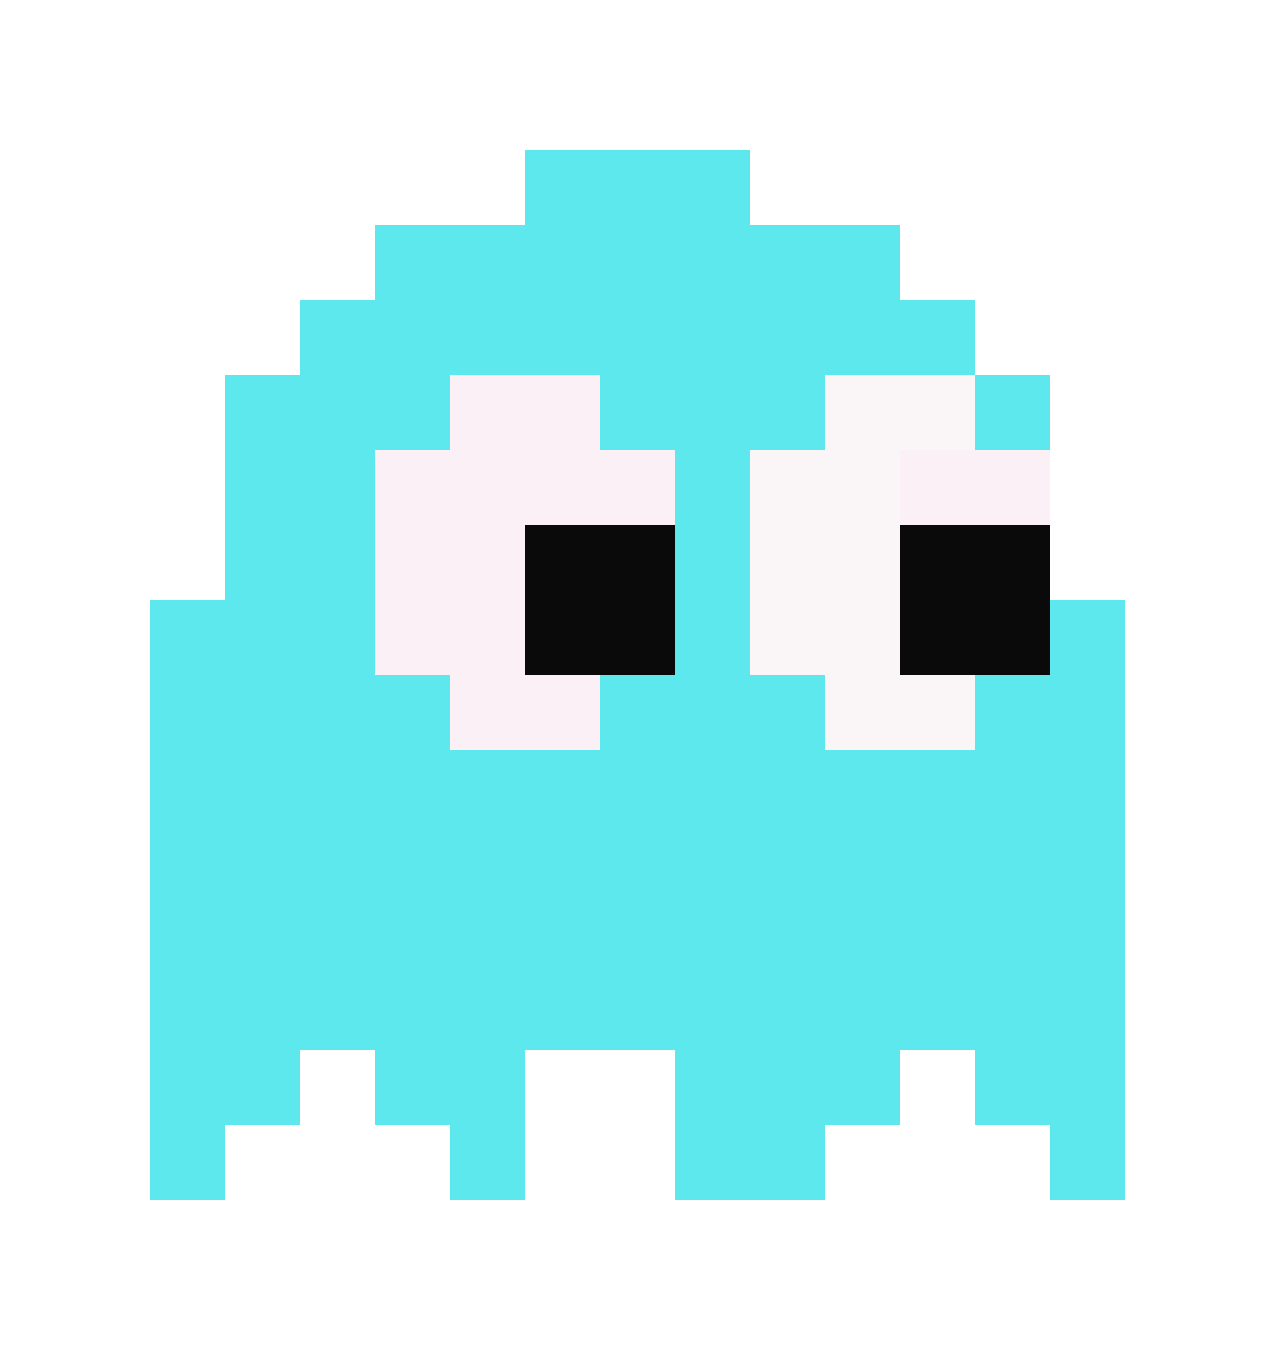
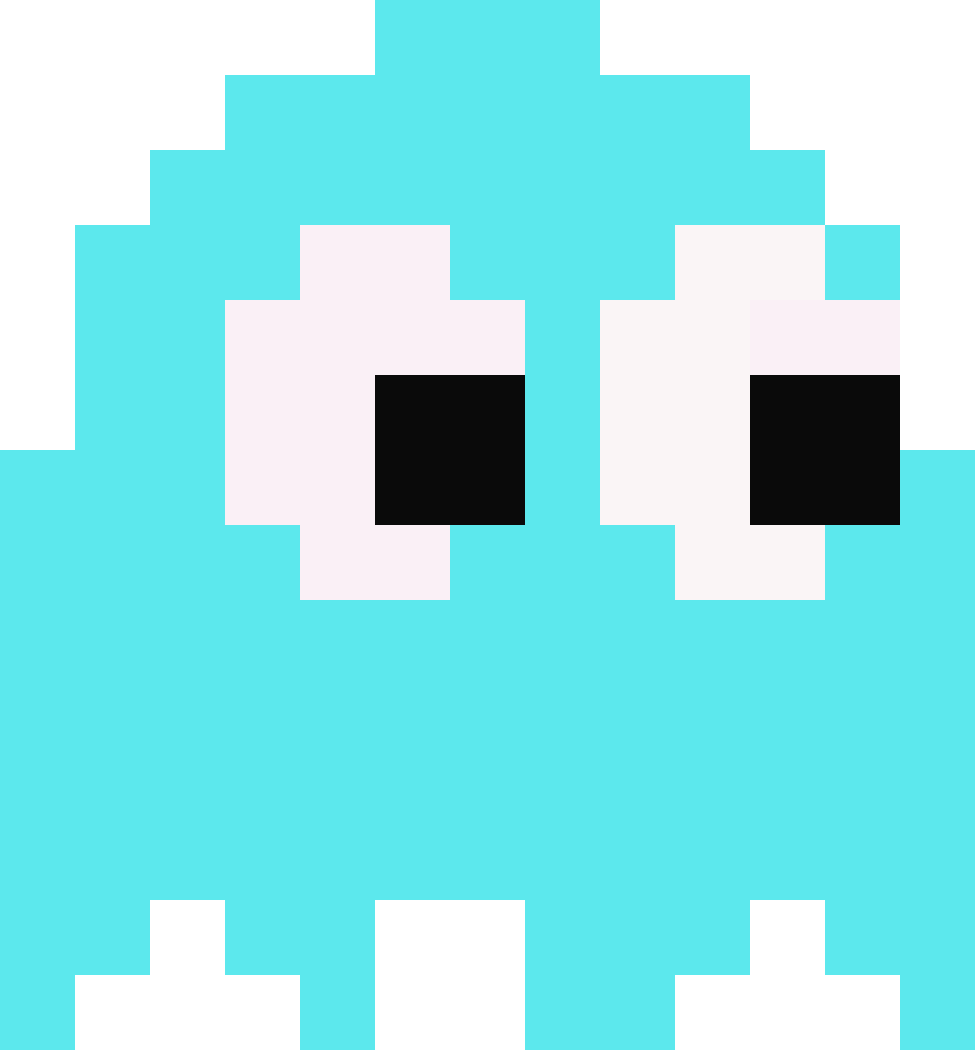
correction moteur graphique

diff --git a/src/main/java/graphique/MoteurGraphique.java b/src/main/java/graphique/MoteurGraphique.java
@@ -61,11 +61,13 @@ public class MoteurGraphique {
         IForme rPacman = new Cercle(60);
         Objet pacman = new Objet(25, 25, rPacman, "pacman.png", 120, 120);
         Objet pinkGhost = new Objet(0, 0, rGhost, "pink_ghost.png", 300, 300);
-        Objet blueGhost = new Objet(50, 30, rGhost, "blue_ghost.png", 300, 300);
+        Objet blueGhost = new Objet(250, 450, rGhost, "blue_ghost.png", 300, 300);
+        Objet redGhost = new Objet(600, 500, rGhost, "red_ghost.png", 300, 300);
         LinkedList<Objet> myObjets = new LinkedList<>();
         myObjets.add(pacman);
         myObjets.add(pinkGhost);
         myObjets.add(blueGhost);
+        myObjets.add(redGhost);
         myMG.display(myObjets);
         //IForme rPacman = new Cercle(300);
         /*Objet pacman1 = new Objet(500, 500, rPacman, "pacman.png", 300, 300);

diff --git a/src/main/java/kernel/Objet.java b/src/main/java/kernel/Objet.java
@@ -71,7 +71,8 @@ public class Objet extends JPanel {
     @Override
     protected void paintComponent(Graphics g) {
         super.paintComponent(g);
-        g.drawImage(image, (int) this.x, (int) this.y, this.sizeImageX, this.sizeImageY, null);
+        setOpaque(false);
+        g.drawImage(image, 0, 0, this.sizeImageX, this.sizeImageY, null);
     }
 
 
